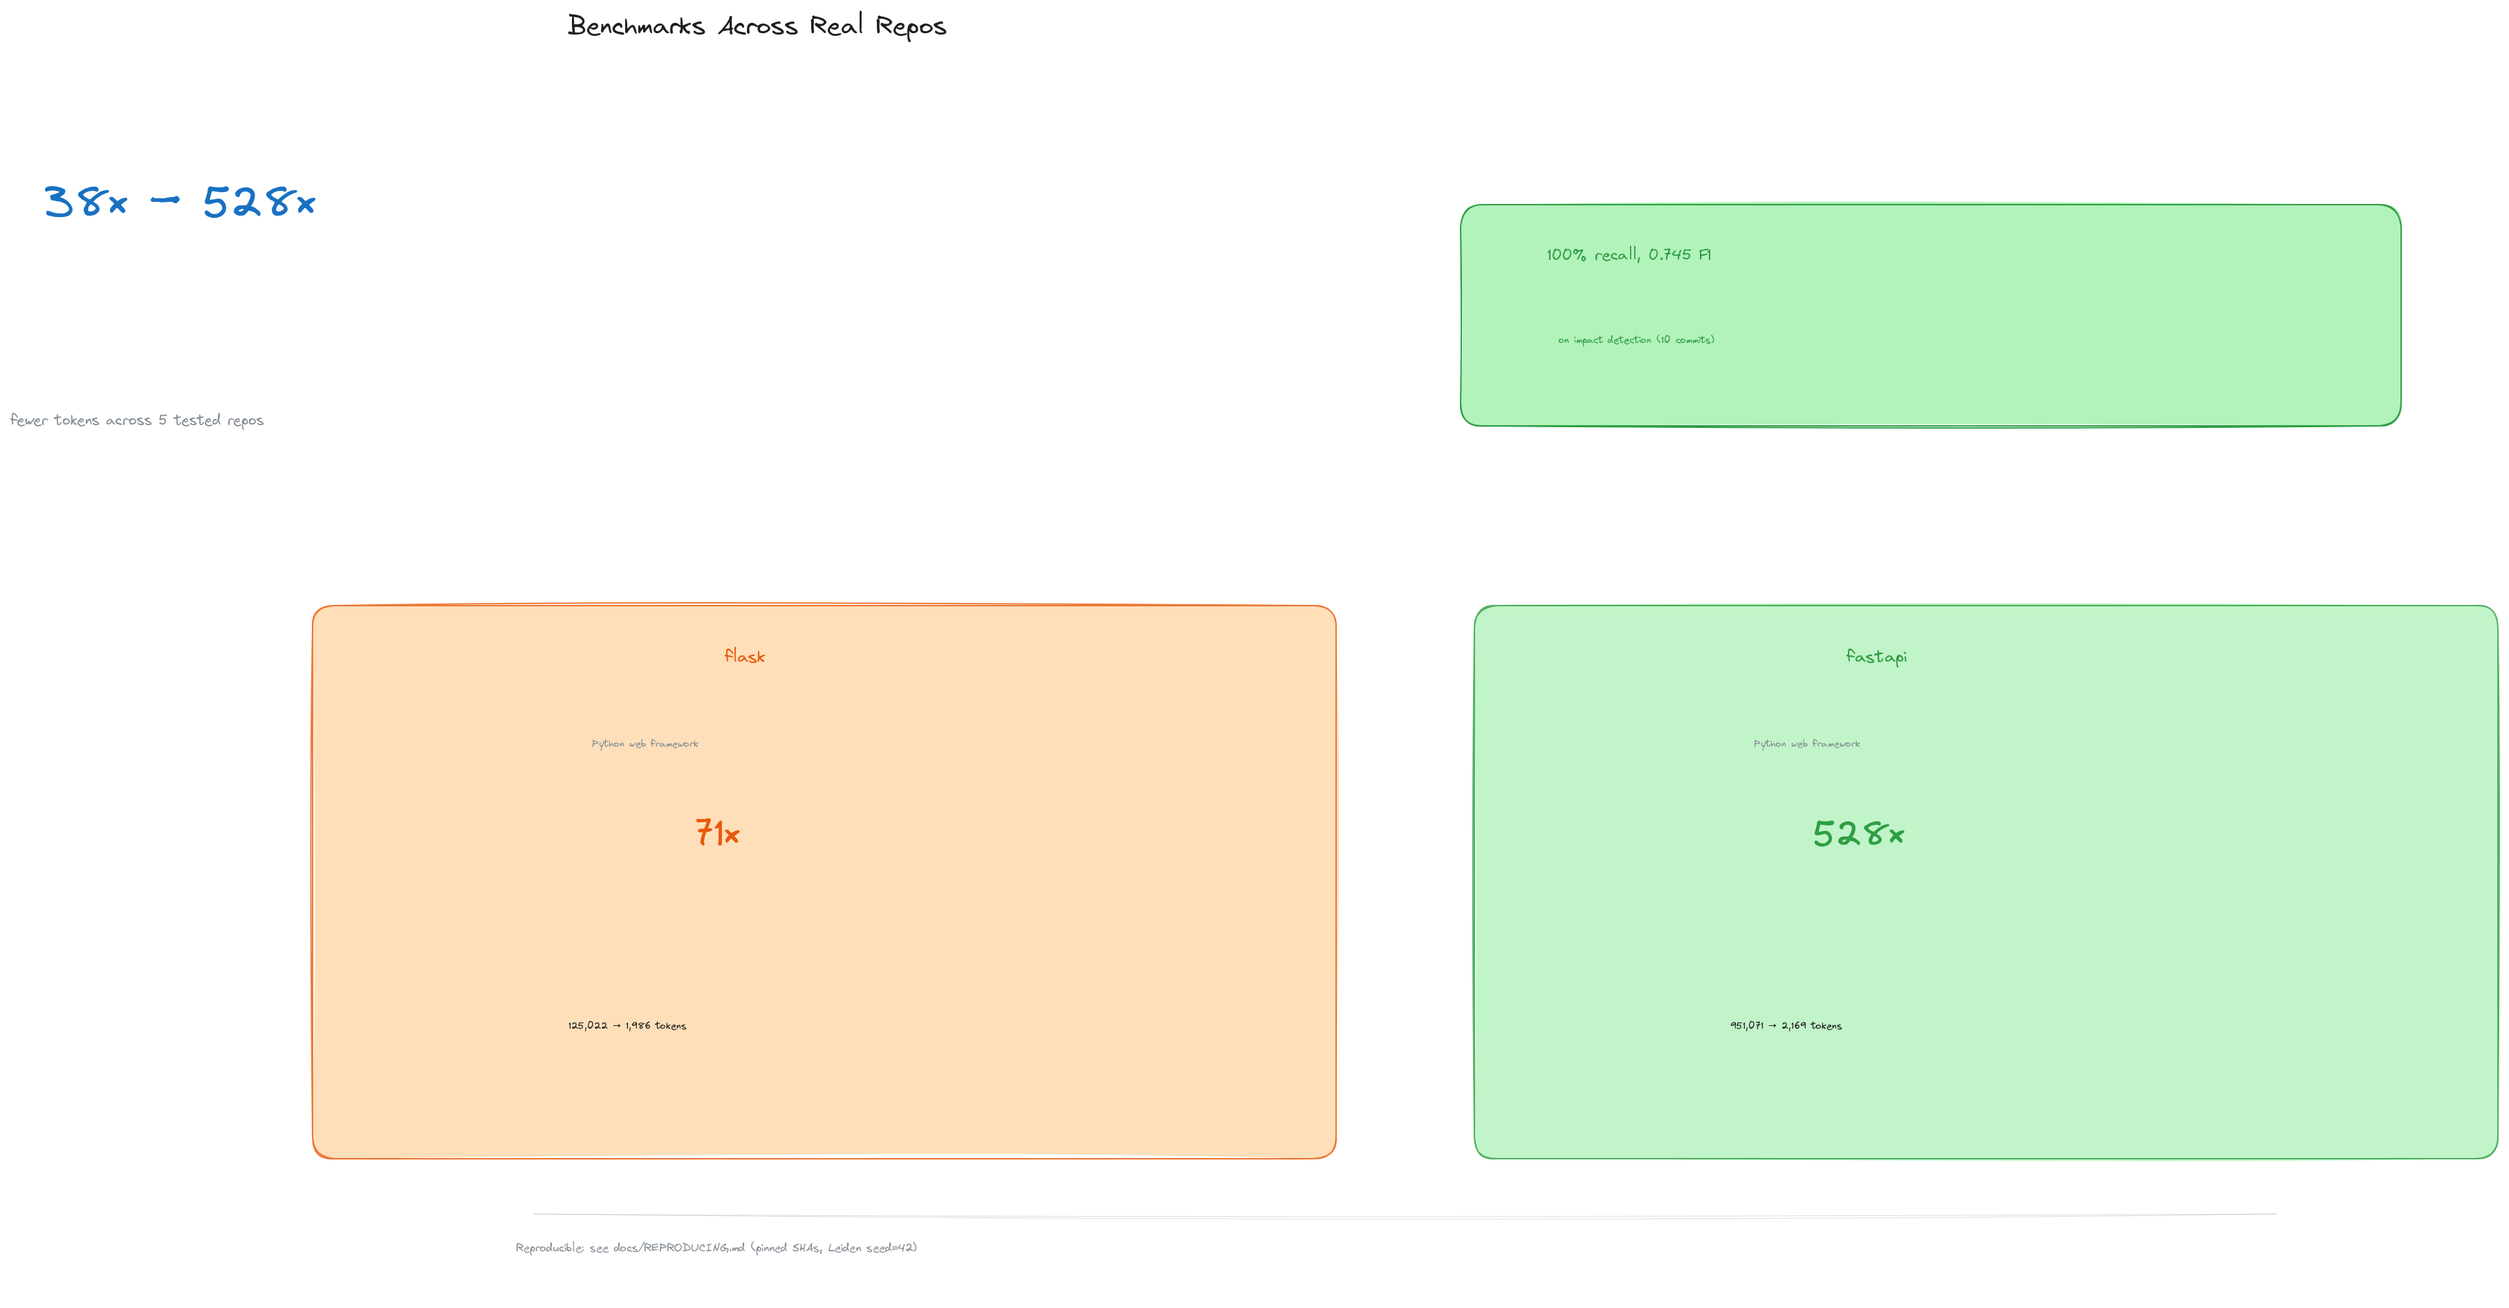
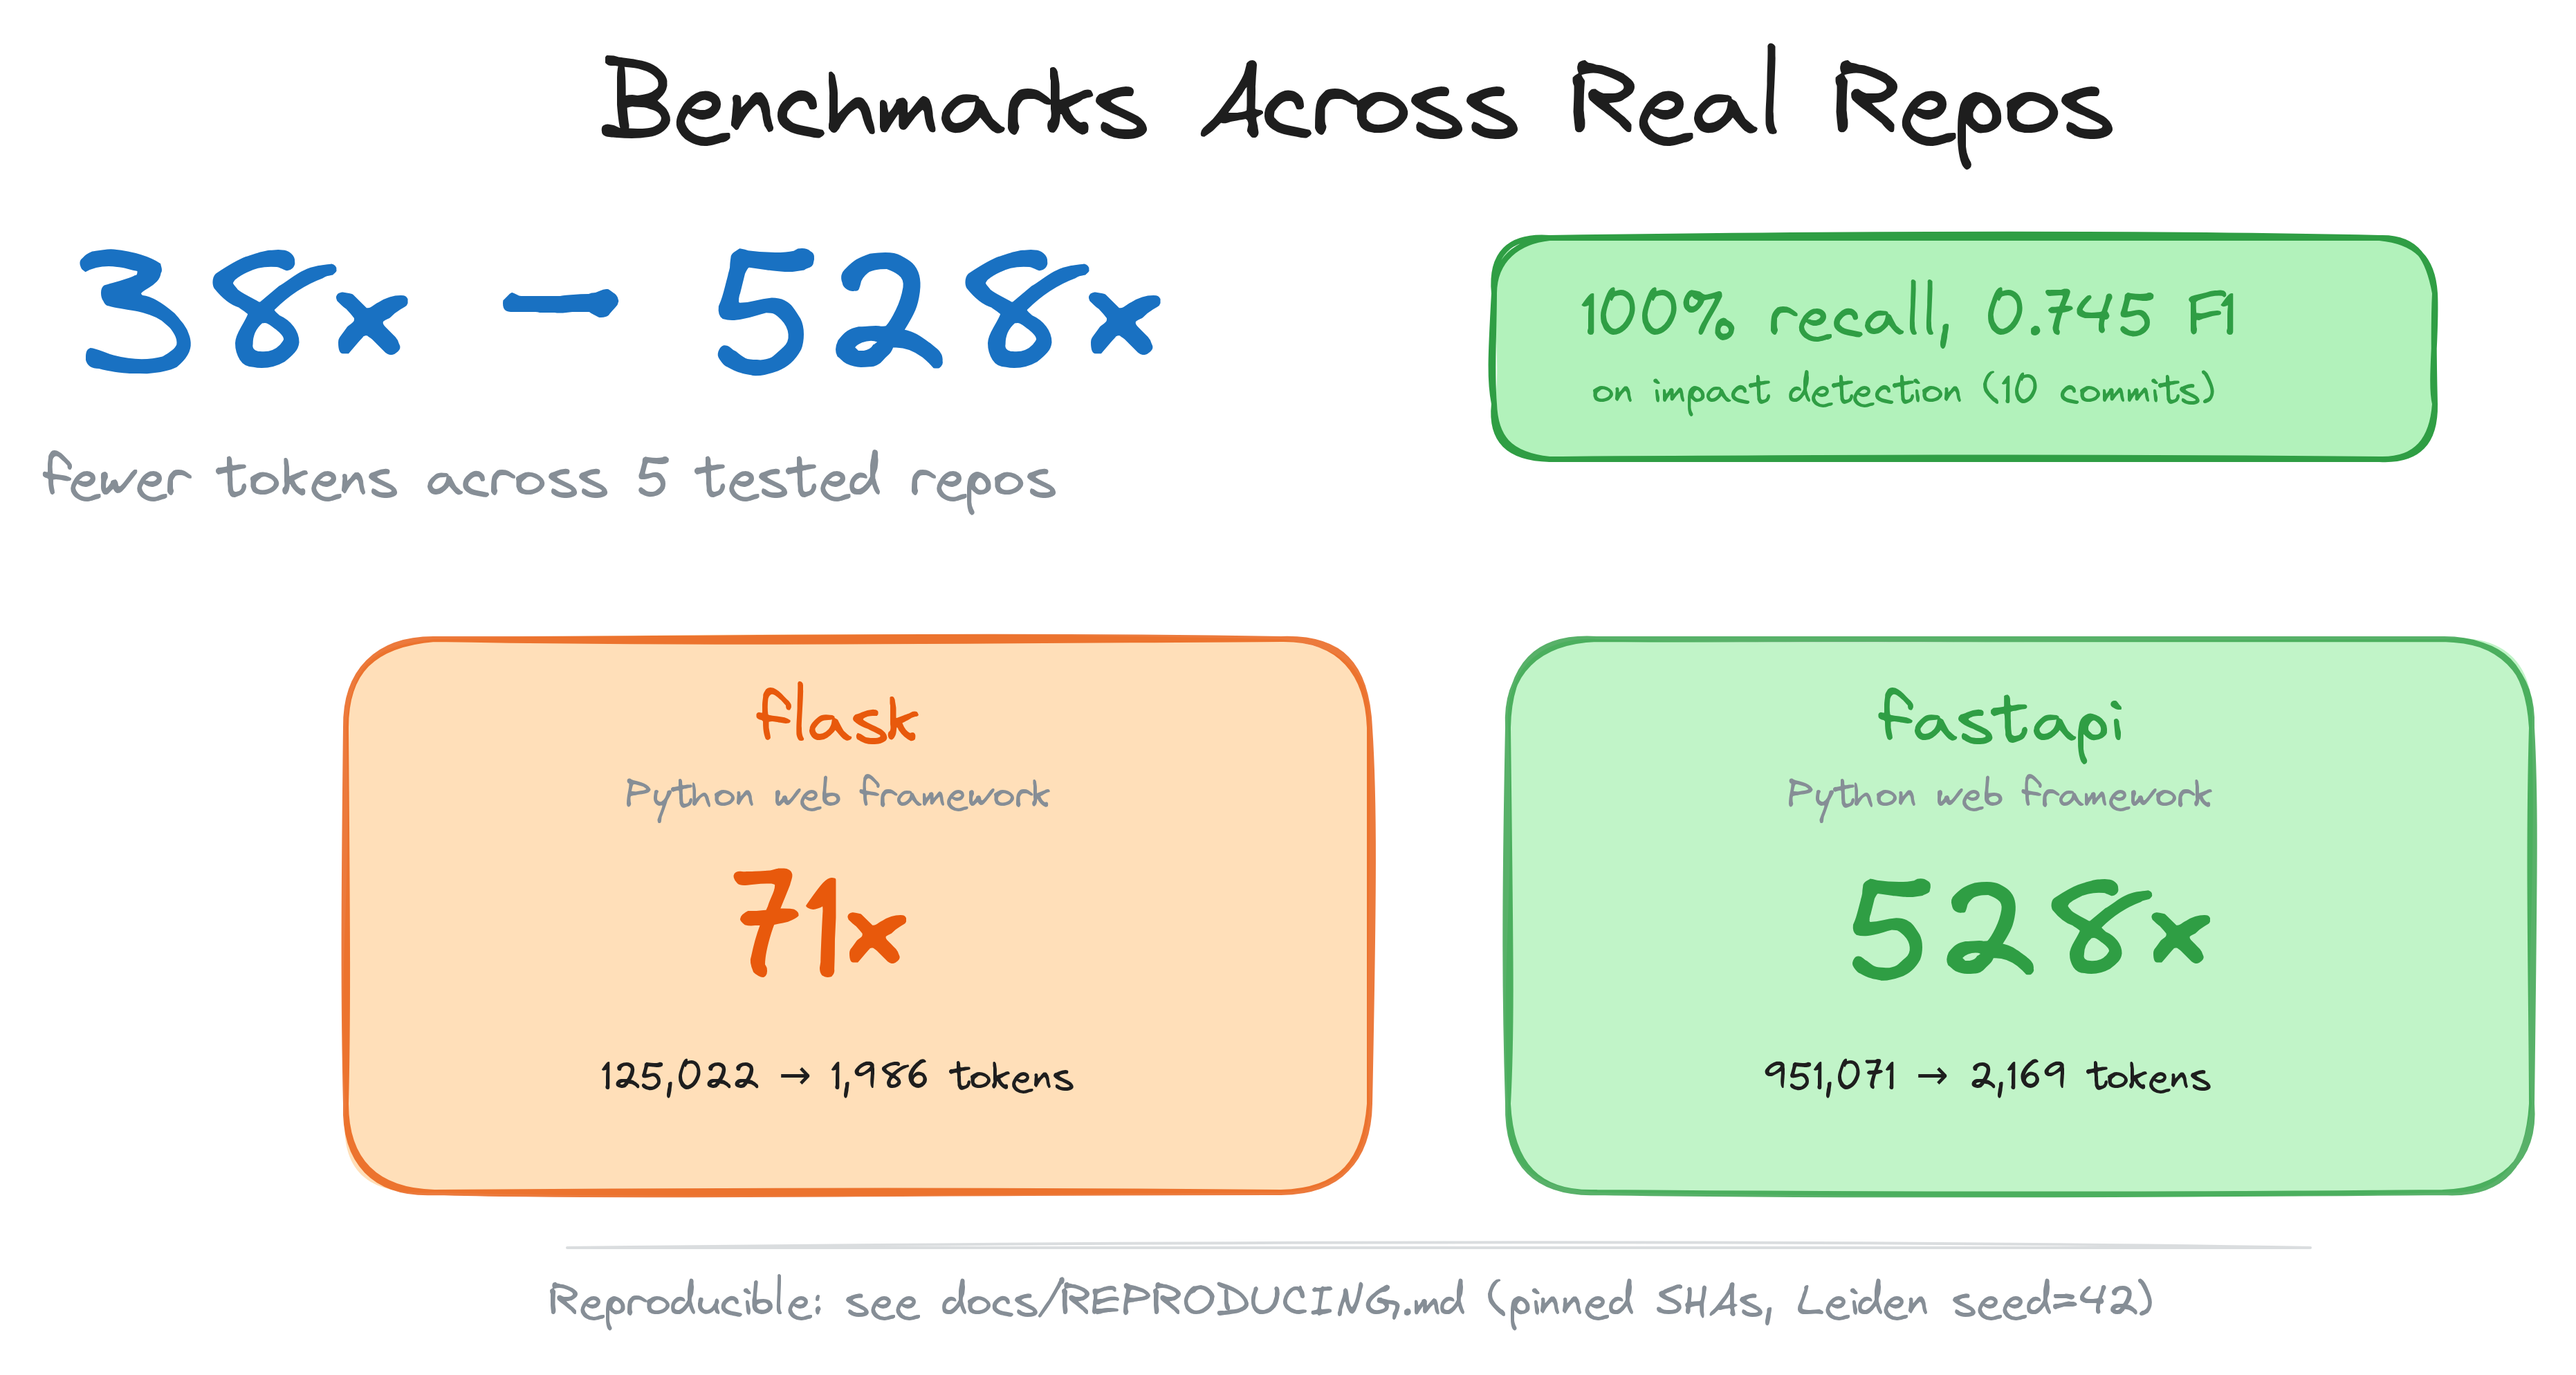
fix: render diagram PNGs with uniform text scaling
The first render pass scaled element coordinates but not fontSize, leaving
text ~4x smaller relative to shapes. Switch exportToBlob to its getDimensions
callback for a clean uniform 4x upscale (coordinates and text scaled together,
matching excalidraw.com's export scale) and re-render the three refreshed
diagrams. The headless bundle embeds the Virgil font so text keeps the
hand-drawn look without network access.

diff --git a/docs/REPRODUCING.md b/docs/REPRODUCING.md
@@ -307,7 +307,7 @@ node export_pngs.mjs                               # 渲染默认 3 张过期的
 # 或：node export_pngs.mjs all                     # 渲染全部 9 张
 ```
 
-`export_pngs.mjs` 用 Playwright 打开内联了 `render-bundle.js` 的无头页面，通过 `@excalidraw/utils` 的 `exportToBlob` 按 4× 坐标缩放渲染，产出的 PNG 与 excalidraw.com 同一渲染引擎保持一致。手动导出（在 excalidraw.com 打开每个 `.excalidraw`）仍可用作后备。
+`export_pngs.mjs` 用 Playwright 打开内联了 `render-bundle.js` 的无头页面，通过 `@excalidraw/utils` 的 `exportToBlob` + `getDimensions` 回调做 uniform 4× 缩放（坐标与文字等比，等同 excalidraw.com 的导出倍率；Virgil 字体内嵌在 bundle 中，无需网络），产出的 PNG 与 excalidraw.com 同一渲染引擎保持一致。手动导出（在 excalidraw.com 打开每个 `.excalidraw`）仍可用作后备。
 
 ## 故障排查
 
